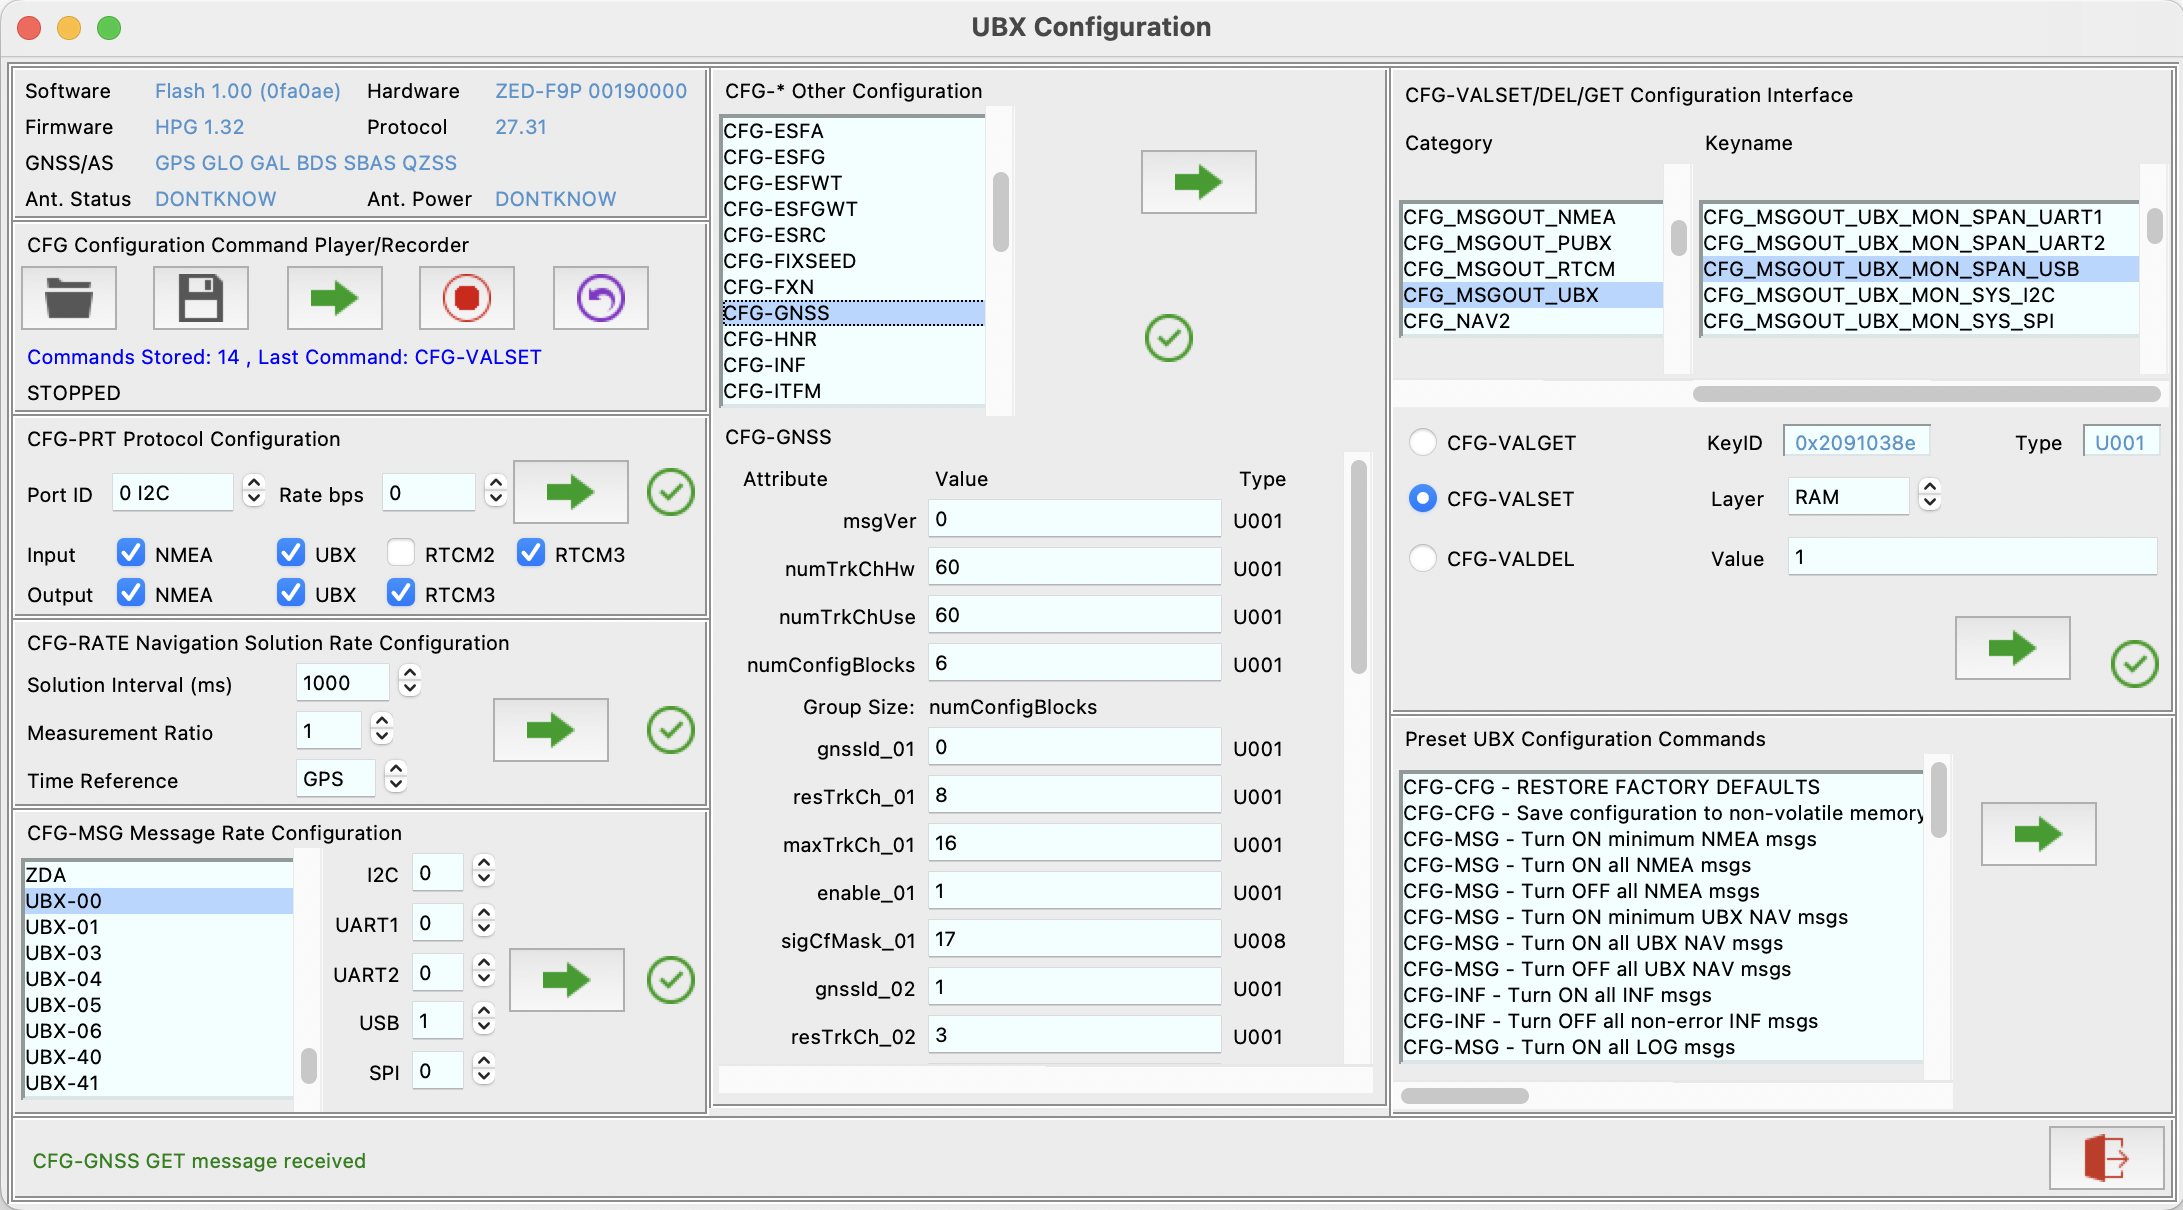
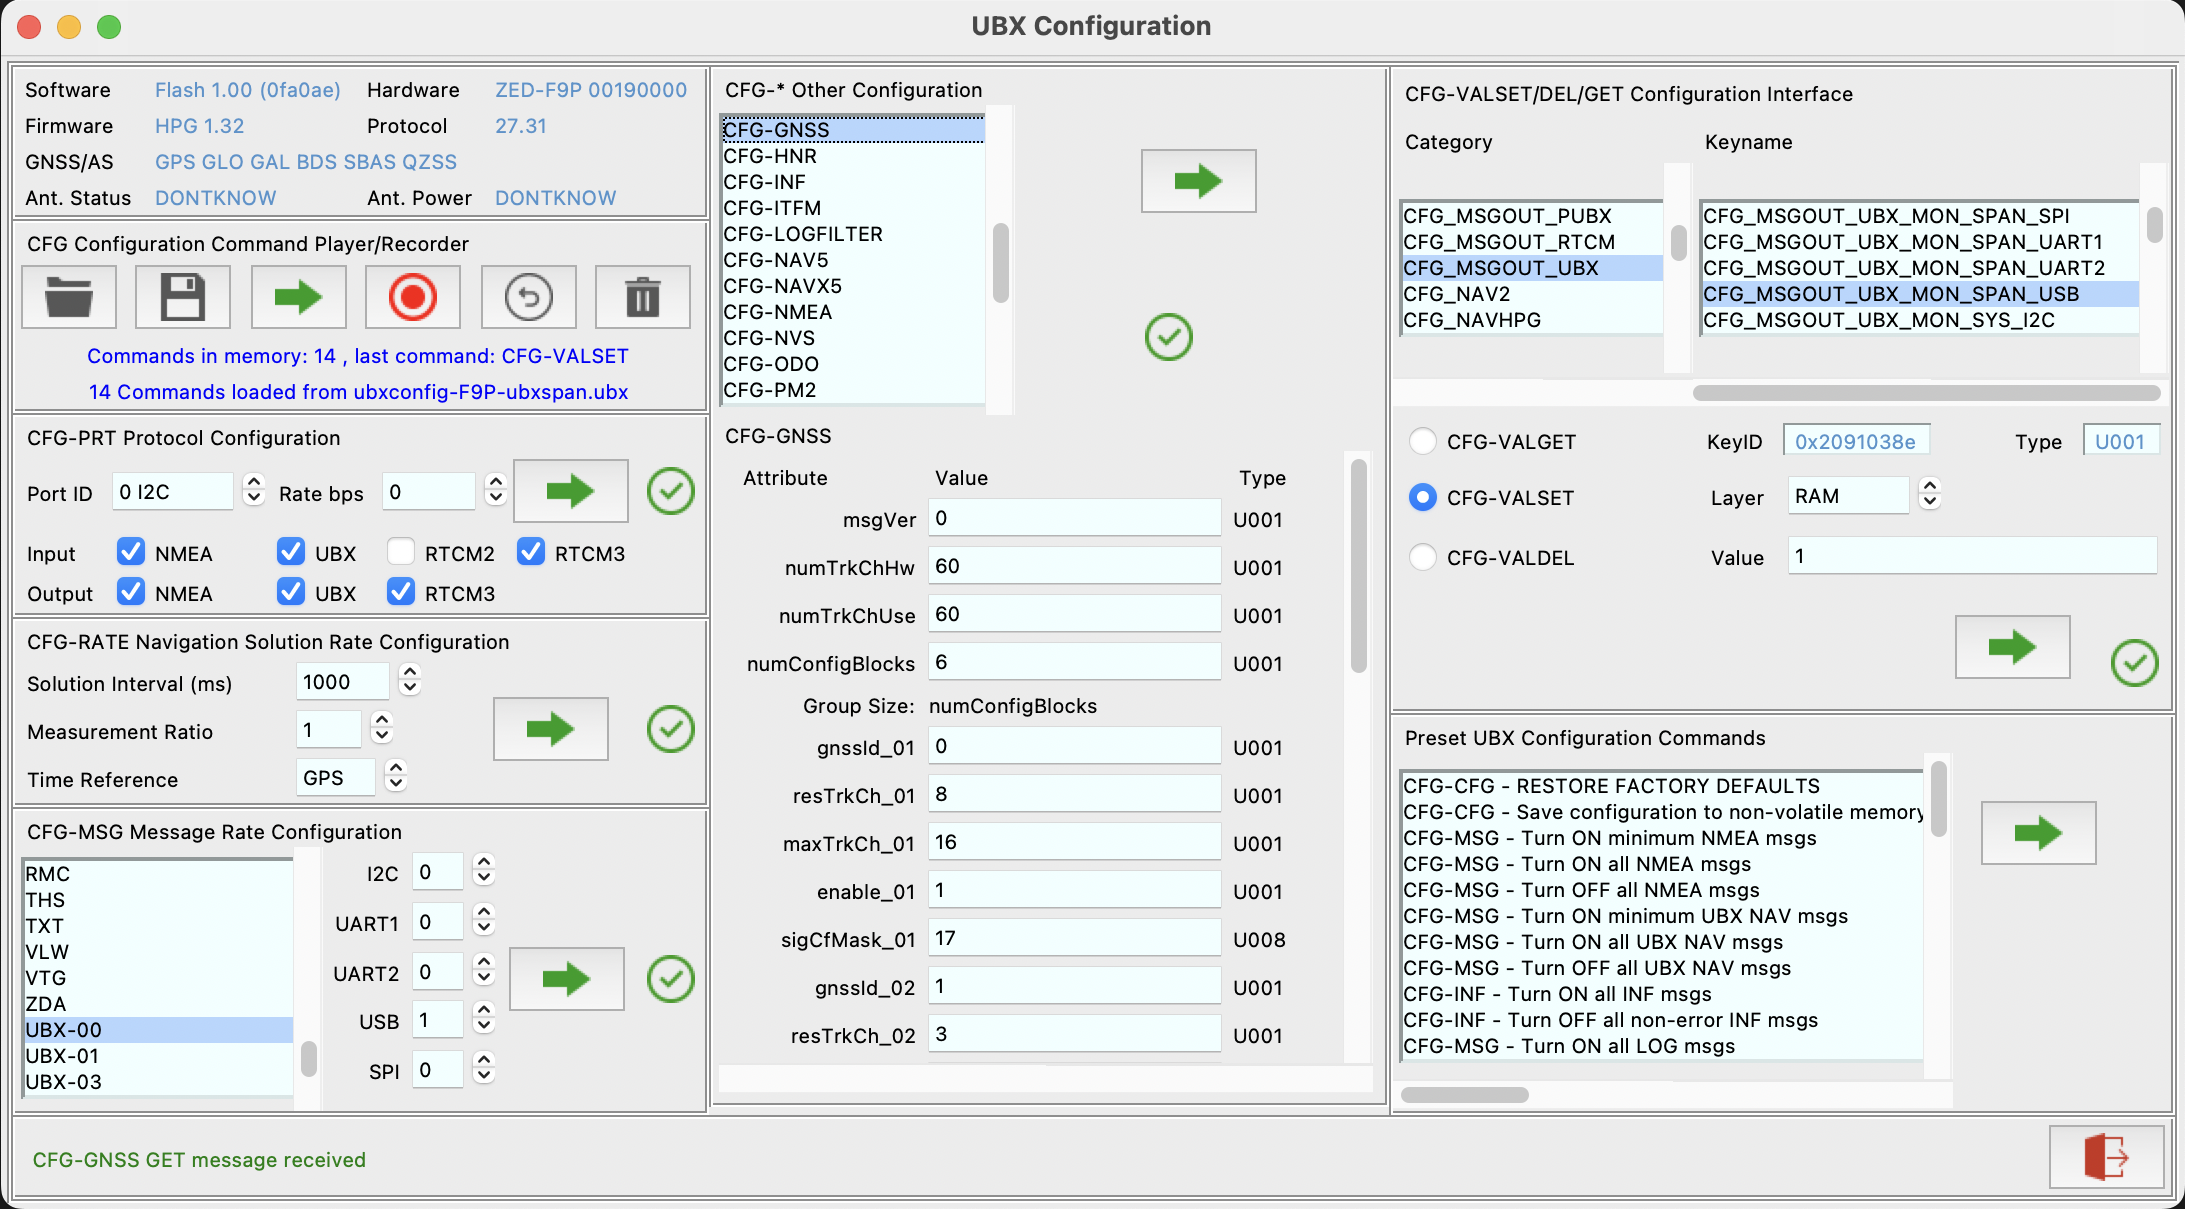
update recording facility

diff --git a/pygpsclient/ubx_recorder_frame.py b/pygpsclient/ubx_recorder_frame.py
@@ -42,6 +42,12 @@ from .strings import LBLCFGRECORD
 STOP = 0
 PLAY = 1
 RECORD = 2
+FLASH = 0.7
+COLGOOD = "green"
+COLBAD = "red"
+COLINFO = "blue"
+COLNORM = "black"
+COLWHIT = "white"
 
 
 class UBX_Recorder_Frame(Frame):
@@ -131,8 +137,8 @@ class UBX_Recorder_Frame(Frame):
             command=self._on_delete,
             font=self.__app.font_md,
         )
-        self._lbl_status = Label(self, text="", fg="blue", anchor="center")
-        self._lbl_activity = Label(self, text="", fg="red", anchor="center")
+        self._lbl_status = Label(self, text="", fg=COLINFO, anchor="center")
+        self._lbl_activity = Label(self, text="", fg=COLBAD, anchor="center")
 
     def _do_layout(self):
         """
@@ -175,7 +181,7 @@ class UBX_Recorder_Frame(Frame):
             return
 
         self._cmds_stored = []
-        self._lbl_activity.config(text="Loading commands...", fg="blue")
+        self._lbl_activity.config(text="Loading commands...", fg=COLINFO)
 
         with open(self._configfile, "rb") as file:
             ubr = UBXReader(file, protfilter=UBX_PROTOCOL, msgmode=SET)
@@ -191,7 +197,7 @@ class UBX_Recorder_Frame(Frame):
         if i > 0:
             self._lbl_activity.config(
                 text=f"{i} Commands loaded from {self._configfile.split('/')[-1]}",
-                fg="blue",
+                fg=COLINFO,
             )
 
         self._update_status()
@@ -202,14 +208,14 @@ class UBX_Recorder_Frame(Frame):
         """
 
         if len(self._cmds_stored) == 0:
-            self._lbl_activity.config(text="Nothing to save", fg="red")
+            self._lbl_activity.config(text="Nothing to save", fg=COLBAD)
             return
 
         self._configfile = self.__app.file_handler.set_configfile_path()
         if self._configfile is None:
             return
 
-        self._lbl_activity.config(text="Saving commands...", fg="blue")
+        self._lbl_activity.config(text="Saving commands...", fg=COLINFO)
         with open(self._configfile, "wb") as file:
             i = 0
             for i, msg in enumerate(self._cmds_stored):
@@ -217,7 +223,7 @@ class UBX_Recorder_Frame(Frame):
         self._cmds_stored = []
         self._lbl_activity.config(
             text=f"{i + 1} Commands saved to {self._configfile.split('/')[-1]}",
-            fg="blue",
+            fg=COLINFO,
         )
         self._update_status()
 
@@ -230,7 +236,7 @@ class UBX_Recorder_Frame(Frame):
             return
 
         if len(self._cmds_stored) == 0:
-            self._lbl_activity.config(text="Nothing to send", fg="red")
+            self._lbl_activity.config(text="Nothing to send", fg=COLBAD)
             return
 
         if self._rec_status == STOP:
@@ -238,11 +244,11 @@ class UBX_Recorder_Frame(Frame):
             i = 0
             for i, msg in enumerate(self._cmds_stored):
                 self._lbl_activity.config(
-                    text=f"{i} Sending {msg.identity}", fg="green"
+                    text=f"{i} Sending {msg.identity}", fg=COLGOOD
                 )
                 self.__app.stream_handler.serial_write(msg.serialize())
                 sleep(0.01)
-            self._lbl_activity.config(text=f"{i + 1} Commands sent", fg="green")
+            self._lbl_activity.config(text=f"{i + 1} Commands sent", fg=COLGOOD)
             self._rec_status = STOP
         self._update_status()
         self._update_activity()
@@ -267,14 +273,14 @@ class UBX_Recorder_Frame(Frame):
         """
 
         if len(self._cmds_stored) == 0:
-            self._lbl_activity.config(text="Nothing to undo", fg="red")
+            self._lbl_activity.config(text="Nothing to undo", fg=COLBAD)
             return
 
         if self._rec_status == STOP:
             if len(self._cmds_stored) > 0:
                 self._cmds_stored.pop()
                 self._update_status()
-                self._lbl_activity.config(text="Last command undone", fg="purple")
+                self._lbl_activity.config(text="Last command undone", fg=COLINFO)
 
     def _on_delete(self):
         """
@@ -285,11 +291,11 @@ class UBX_Recorder_Frame(Frame):
             return
 
         if len(self._cmds_stored) == 0:
-            self._lbl_activity.config(text="Nothing to delete", fg="red")
+            self._lbl_activity.config(text="Nothing to delete", fg=COLBAD)
             return
 
         self._lbl_activity.config(
-            text=f"{len(self._cmds_stored)} records deleted", fg="red"
+            text=f"{len(self._cmds_stored)} records deleted", fg=COLBAD
         )
         self._cmds_stored = []
         self._update_status()
@@ -303,7 +309,7 @@ class UBX_Recorder_Frame(Frame):
         lst = f" , last command: {self._cmds_stored[-1].identity}" if lcs > 0 else ""
         self._lbl_status.config(
             text=f"Commands in memory: {lcs}{lst}",
-            fg="blue",
+            fg=COLINFO,
         )
 
     def _update_activity(self):
@@ -315,11 +321,11 @@ class UBX_Recorder_Frame(Frame):
             self._stop_event.set()
             pimg = self._img_play
             rimg = self._img_record
-            self._lbl_activity.config(text="STOPPED", fg="black", bg=self._bg)
+            self._lbl_activity.config(text="STOPPED", fg=COLNORM, bg=self._bg)
         elif self._rec_status == PLAY:
             pimg = self._img_stop
             rimg = self._img_record
-            self._lbl_activity.config(text="PLAYING", fg="green", bg=self._bg)
+            self._lbl_activity.config(text="PLAYING", fg=COLGOOD, bg=self._bg)
         elif self._rec_status == RECORD:
             self._stop_event.clear()
             pimg = self._img_play
@@ -351,10 +357,10 @@ class UBX_Recorder_Frame(Frame):
         Flash record indicator for conspicuity.
         """
 
-        cols = [("white", "red"), ("red", self._bg)]
+        cols = [(COLWHIT, COLBAD), (COLBAD, self._bg)]
         i = 0
         while not stop.is_set():
 
             i = not i
             self._lbl_activity.config(text="RECORDING", fg=cols[i][0], bg=cols[i][1])
-            sleep(1)
+            sleep(FLASH)

diff --git a/pygpsclient/ubx_msgrate_frame.py b/pygpsclient/ubx_msgrate_frame.py
@@ -244,17 +244,17 @@ class UBX_MSGRATE_Frame(Frame):
         self._cfg_msg_command = self._lbx_cfg_msg.get(idx)
 
         # poll selected message configuration to get current message rates
-        msg = key_from_val(UBX_MSGIDS, self._cfg_msg_command)
-        self._do_poll_msg(msg)
+        msgtyp = key_from_val(UBX_MSGIDS, self._cfg_msg_command)
+        self._do_poll_msg(msgtyp)
 
     def _on_send_cfg_msg(self, *args, **kwargs):  # pylint: disable=unused-argument
         """
         CFG-MSG command send button has been clicked.
         """
 
-        msg = key_from_val(UBX_MSGIDS, self._cfg_msg_command)
-        msgClass = int.from_bytes(msg[0:1], "little", signed=False)
-        msgID = int.from_bytes(msg[1:2], "little", signed=False)
+        msgtyp = key_from_val(UBX_MSGIDS, self._cfg_msg_command)
+        msgClass = int.from_bytes(msgtyp[0:1], "little", signed=False)
+        msgID = int.from_bytes(msgtyp[1:2], "little", signed=False)
         rateDDC = int(self._ddc_rate.get())
         rateUART1 = int(self._uart1_rate.get())
         rateUART2 = int(self._uart2_rate.get())
@@ -278,14 +278,16 @@ class UBX_MSGRATE_Frame(Frame):
         for msgid in ("ACK-ACK", "ACK-NAK"):
             self.__container.set_pending(msgid, UBX_CFGMSG)
 
-        self._do_poll_msg(msg)
+        self._do_poll_msg(msgtyp)
 
-    def _do_poll_msg(self, msg):
+    def _do_poll_msg(self, msgtyp: bytes):
         """
         Poll message rate.
+
+        :param bytes msgtyp: payload of msgClass, msgID
         """
 
-        msg = UBXMessage("CFG", "CFG-MSG", POLL, payload=msg)  # poll for a response
+        msg = UBXMessage("CFG", "CFG-MSG", POLL, payload=msgtyp)
         self.__container.send_command(msg)
         self._lbl_send_command.config(image=self._img_pending)
         self.__container.set_status("CFG-MSG POLL message sent", "blue")

diff --git a/pygpsclient/globals.py b/pygpsclient/globals.py
@@ -40,9 +40,9 @@ ICON_NOCLIENT = os.path.join(DIRNAME, "resources/iconmonstr-noclient-10-24.png")
 ICON_LOAD = os.path.join(DIRNAME, "resources/iconmonstr-folder-18-24.png")
 ICON_SAVE = os.path.join(DIRNAME, "resources/iconmonstr-save-14-24.png")
 ICON_PLAY = os.path.join(DIRNAME, "resources/iconmonstr-media-control-48-24.png")
-ICON_RECORD = os.path.join(DIRNAME, "resources/iconmonstr-record-1-24.png")
+ICON_RECORD = os.path.join(DIRNAME, "resources/iconmonstr-record-24.png")
 ICON_STOP = os.path.join(DIRNAME, "resources/iconmonstr-stop-1-24.png")
-ICON_UNDO = os.path.join(DIRNAME, "resources/iconmonstr-undo-6-24.png")
+ICON_UNDO = os.path.join(DIRNAME, "resources/iconmonstr-undo-24.png")
 ICON_DELETE = os.path.join(DIRNAME, "resources/iconmonstr-trash-can-filled-24.png")
 IMG_WORLD = os.path.join(DIRNAME, "resources/world.png")
 

diff --git a/pygpsclient/ubx_port_frame.py b/pygpsclient/ubx_port_frame.py
@@ -256,7 +256,8 @@ class UBX_PORT_Frame(Frame):
         self.__container.send_command(msg)
         self._lbl_send_command.config(image=self._img_pending)
         self.__container.set_status("CFG-PRT SET message sent", "blue")
-        self.__container.set_pending(UBX_CFGPRT, ("ACK-ACK", "ACK-NAK"))
+        for msgid in ("ACK-NAK", "ACK-NAK"):
+            self.__container.set_pending(msgid, UBX_CFGPRT)
 
         self._do_poll_prt()
 

diff --git a/README.md b/README.md
@@ -105,7 +105,7 @@ This is an independent project and we have no affiliation whatsoever with u-blox
 
 The UBX Configuration Dialog currently supports the following UBX configuration panels:
 1. Version panel shows current device hardware/firmware versions (*via MON-VER and MON-HW polls*).
-1. CFG Confirmation Command Player/Recorder facility. This allows users to record a sequence of UBX CFG configuration commands sent to a device in a memory array, and to save this memory array to a binary file. Saved files can be reloaded and the configuration commands replayed. This provides a means to easily reproduce a given sequence of configuration commands, or copy a saved configuration between compatible devices. Files saved using the [ubxsave](#ubxsave) CLI utility can also be reloaded and replayed. **Tip:** The contents of a binary config file can be reviewed using PyGPSClient's [file streaming facility](#filestream), *BUT* remember to set the `Msg Mode` in the Settings panel to `SET` (output command mode) rather than the default `GET` (input message mode).
+1. CFG Confirmation Command Player/Recorder facility. This allows users to record a sequence of UBX CFG configuration commands, and to save this recording to a file (as binary CFG-* messages). Saved files can be reloaded and the configuration commands replayed. This provides a means to easily reproduce a given sequence of configuration commands, or copy a saved configuration between compatible devices. Files saved using the [ubxsave](#ubxsave) CLI utility can also be reloaded and replayed. **Tip:** The contents of a binary config file can be reviewed using PyGPSClient's [file streaming facility](#filestream), *BUT* remember to set the `Msg Mode` in the Settings panel to `SET` (output command mode) rather than the default `GET` (input message mode).
 1. Protocol Configuration panel (CFG-PRT) sets baud rate and inbound/outbound protocols across all available ports.
 1. Solution Rate panel (CFG-RATE) sets navigation solution interval in ms (e.g. 1000 = 1/second) and measurement ratio (ratio between the number of measurements and the number of navigation solutions, e.g. 5 = five measurements per navigation solution).
 1. For each of the panels above, clicking anywhere in the panel background will refresh the displayed information with the current configuration.
